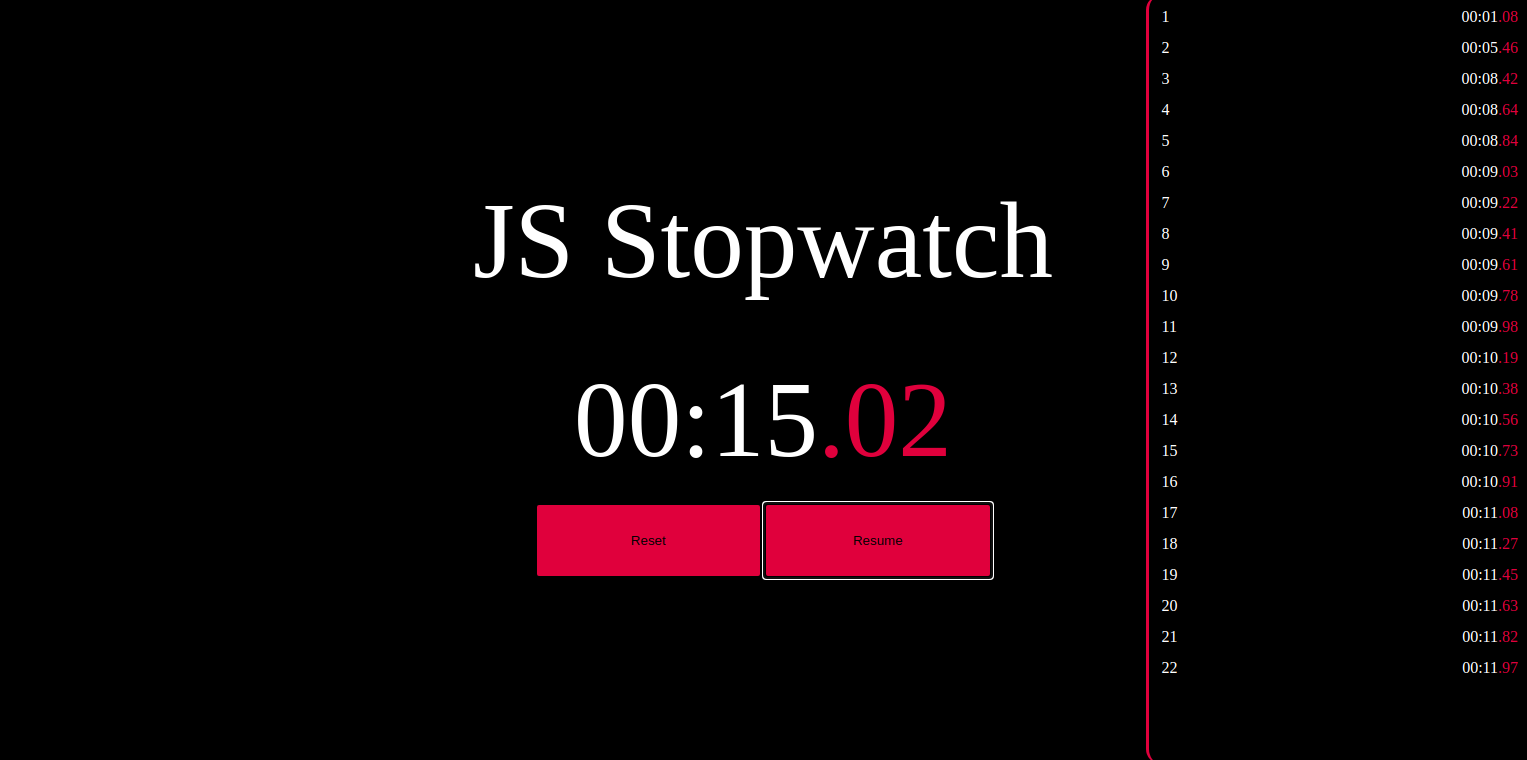
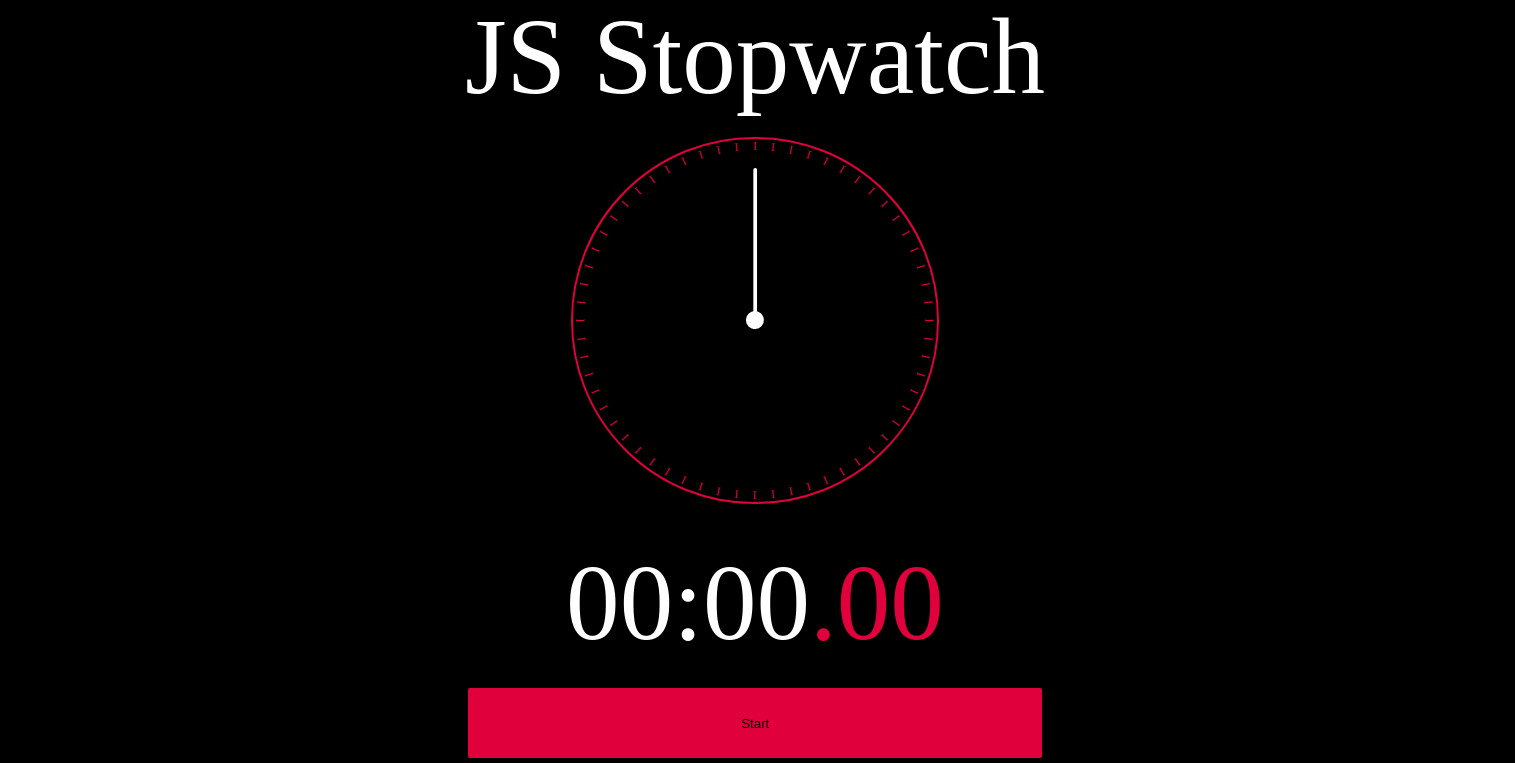
NEW: Added Clock

diff --git a/index.css b/index.css
@@ -54,6 +54,259 @@ button {
 }
 
 .start-button {
-  max-width: 40%;
   flex: 1;
+}
+
+* {
+  box-sizing: border-box;
+}
+
+body {
+  display: flex;
+  justify-content: center;
+  align-items: center;
+}
+
+.clock {
+  width: 24vw;
+  height: 24vw;
+  border-radius: 50%;
+  background: black;
+  position: relative;
+  border: 2px solid crimson;
+}
+
+.clock .tick {
+  --rotation: 0;
+  color: crimson;
+  text-align: center;
+  width: 100%;
+  height: 100%;
+  position: absolute;
+  font-size: 12px;
+  transform: rotate(var(--rotation));
+}
+
+.clock .tick1-2 {
+  transform: rotate(6deg);
+}
+.clock .tick1-3 {
+  transform: rotate(12deg);
+}
+.clock .tick1-4 {
+  transform: rotate(18deg);
+}
+.clock .tick1-5 {
+  transform: rotate(24deg);
+}
+.clock .tick1 {
+  transform: rotate(30deg);
+}
+
+.clock .tick2-2 {
+  transform: rotate(36deg);
+}
+.clock .tick2-3 {
+  transform: rotate(42deg);
+}
+.clock .tick2-4 {
+  transform: rotate(48deg);
+}
+.clock .tick2-5 {
+  transform: rotate(54deg);
+}
+.clock .tick2 {
+  transform: rotate(60deg);
+}
+
+.clock .tick3-2 {
+  transform: rotate(66deg);
+}
+.clock .tick3-3 {
+  transform: rotate(72deg);
+}
+.clock .tick3-4 {
+  transform: rotate(78deg);
+}
+.clock .tick3-5 {
+  transform: rotate(84deg);
+}
+.clock .tick3 {
+  transform: rotate(90deg);
+}
+
+.clock .tick4-2 {
+  transform: rotate(96deg);
+}
+.clock .tick4-3 {
+  transform: rotate(102deg);
+}
+.clock .tick4-4 {
+  transform: rotate(108deg);
+}
+.clock .tick4-5 {
+  transform: rotate(114deg);
+}
+.clock .tick4 {
+  transform: rotate(120deg);
+}
+
+.clock .tick5-2 {
+  transform: rotate(126deg);
+}
+.clock .tick5-3 {
+  transform: rotate(132deg);
+}
+.clock .tick5-4 {
+  transform: rotate(138deg);
+}
+.clock .tick5-5 {
+  transform: rotate(144deg);
+}
+.clock .tick5 {
+  transform: rotate(150deg);
+}
+
+.clock .tick6-2 {
+  transform: rotate(156deg);
+}
+.clock .tick6-3 {
+  transform: rotate(162deg);
+}
+.clock .tick6-4 {
+  transform: rotate(168deg);
+}
+.clock .tick6-5 {
+  transform: rotate(174deg);
+}
+.clock .tick6 {
+  transform: rotate(180deg);
+}
+
+.clock .tick7-2 {
+  transform: rotate(186deg);
+}
+.clock .tick7-3 {
+  transform: rotate(192deg);
+}
+.clock .tick7-4 {
+  transform: rotate(198deg);
+}
+.clock .tick7-5 {
+  transform: rotate(204deg);
+}
+.clock .tick7 {
+  transform: rotate(210deg);
+}
+
+.clock .tick8-2 {
+  transform: rotate(216deg);
+}
+.clock .tick8-3 {
+  transform: rotate(222deg);
+}
+.clock .tick8-4 {
+  transform: rotate(228deg);
+}
+.clock .tick8-5 {
+  transform: rotate(234deg);
+}
+.clock .tick8 {
+  transform: rotate(240deg);
+}
+
+.clock .tick9-2 {
+  transform: rotate(246deg);
+}
+.clock .tick9-3 {
+  transform: rotate(252deg);
+}
+.clock .tick9-4 {
+  transform: rotate(258deg);
+}
+.clock .tick9-5 {
+  transform: rotate(264deg);
+}
+.clock .tick9 {
+  transform: rotate(270deg);
+}
+
+.clock .tick10-2 {
+  transform: rotate(276deg);
+}
+.clock .tick10-3 {
+  transform: rotate(282deg);
+}
+.clock .tick10-4 {
+  transform: rotate(288deg);
+}
+.clock .tick10-5 {
+  transform: rotate(294deg);
+}
+.clock .tick10 {
+  transform: rotate(300deg);
+}
+
+.clock .tick11-2 {
+  transform: rotate(306deg);
+}
+.clock .tick11-3 {
+  transform: rotate(312deg);
+}
+.clock .tick11-4 {
+  transform: rotate(318deg);
+}
+.clock .tick11-5 {
+  transform: rotate(324deg);
+}
+.clock .tick11 {
+  transform: rotate(330deg);
+}
+
+.clock .tick12-2 {
+  transform: rotate(336deg);
+}
+.clock .tick12-3 {
+  transform: rotate(342deg);
+}
+.clock .tick12-4 {
+  transform: rotate(348deg);
+}
+.clock .tick12-5 {
+  transform: rotate(354deg);
+}
+
+.clock .hand {
+  --rotation: 0;
+  background-color: black;
+  width: 3%;
+  border: 1px solid transparent;
+  border-top-right-radius: 12px;
+  height: 40%;
+  border-top-left-radius: 12px;
+  position: absolute;
+  bottom: 50%;
+  left: 50%;
+  z-index: 10;
+  transform: translateX(-50%) rotate(calc(var(--rotation) * 1deg));
+  transform-origin: bottom;
+}
+
+.clock .hand.sec {
+  height: 42%;
+  width: 1%;
+  background-color: white;
+}
+
+.clock::after {
+  content: "";
+  height: 5%;
+  width: 5%;
+  background-color: white;
+  bottom: 50%;
+  left: 50%;
+  position: absolute;
+  transform: translate(-50%, 50%);
+  z-index: 123;
+  border-radius: 50%;
 }

diff --git a/index.html b/index.html
@@ -11,7 +11,83 @@
     <div class="wrapper">
         <div class="left">
             <p class="top-heading">JS Stopwatch</p>
-            <br><br>
+            <br>
+            <div class="clock">
+                <div class="hand sec"></div>
+
+                <div class="tick tick1">I</div>
+                <div class="tick tick1-2">I</div>
+                <div class="tick tick1-3">I</div>
+                <div class="tick tick1-4">I</div>
+                <div class="tick tick1-5">I</div>
+
+                <div class="tick tick2">I</div>
+                <div class="tick tick2-2">I</div>
+                <div class="tick tick2-3">I</div>
+                <div class="tick tick2-4">I</div>
+                <div class="tick tick2-5">I</div>
+
+                <div class="tick tick3">I</div>
+                <div class="tick tick3-2">I</div>
+                <div class="tick tick3-3">I</div>
+                <div class="tick tick3-4">I</div>
+                <div class="tick tick3-5">I</div>
+
+                <div class="tick tick4">I</div>
+                <div class="tick tick4-2">I</div>
+                <div class="tick tick4-3">I</div>
+                <div class="tick tick4-4">I</div>
+                <div class="tick tick4-5">I</div>
+
+                <div class="tick tick5">I</div>
+                <div class="tick tick5-2">I</div>
+                <div class="tick tick5-3">I</div>
+                <div class="tick tick5-4">I</div>
+                <div class="tick tick5-5">I</div>
+
+                <div class="tick tick6">I</div>
+                <div class="tick tick6-2">I</div>
+                <div class="tick tick6-3">I</div>
+                <div class="tick tick6-4">I</div>
+                <div class="tick tick6-5">I</div>
+
+                <div class="tick tick7">I</div>
+                <div class="tick tick7-2">I</div>
+                <div class="tick tick7-3">I</div>
+                <div class="tick tick7-4">I</div>
+                <div class="tick tick7-5">I</div>
+
+                <div class="tick tick8">I</div>
+                <div class="tick tick8-2">I</div>
+                <div class="tick tick8-3">I</div>
+                <div class="tick tick8-4">I</div>
+                <div class="tick tick8-5">I</div>
+
+                <div class="tick tick9">I</div>
+                <div class="tick tick9-2">I</div>
+                <div class="tick tick9-3">I</div>
+                <div class="tick tick9-4">I</div>
+                <div class="tick tick9-5">I</div>
+
+                <div class="tick tick10">I</div>
+                <div class="tick tick10-2">I</div>
+                <div class="tick tick10-3">I</div>
+                <div class="tick tick10-4">I</div>
+                <div class="tick tick10-5">I</div>
+
+                <div class="tick tick11">I</div>
+                <div class="tick tick11-2">I</div>
+                <div class="tick tick11-3">I</div>
+                <div class="tick tick11-4">I</div>
+                <div class="tick tick11-5">I</div>
+
+                <div class="tick tick12">I</div>
+                <div class="tick tick12-2">I</div>
+                <div class="tick tick12-3">I</div>
+                <div class="tick tick12-4">I</div>
+                <div class="tick tick12-5">I</div>
+            </div>
+            <br>
             <p class="timer"><span id="min">00</span>:<span id="sec">00</span><span
                     style="color: crimson;">.</span><span style="color: crimson;" id="msec">00</span></p>
             <div class="timer-buttons">

diff --git a/index.js b/index.js
@@ -13,6 +13,7 @@ window.onload = function () {
   var msecTime = document.getElementById("msec");
   var minTime = document.getElementById("min");
   var secTime = document.getElementById("sec");
+  const secondsHand = document.querySelector(".clock .hand.sec");
 
   var rightSection = document.getElementById("right");
 
@@ -90,6 +91,10 @@ window.onload = function () {
   }
 
   function setTime(isReset = false) {
+    secondsHand.style.setProperty(
+      "--rotation",
+      ((secs * 1000 + msecs) / 1000 / 60) * 360
+    );
     if (msecs >= 1000) {
       secs++;
       msecs = 0;

diff --git a/README.md b/README.md
@@ -3,11 +3,11 @@
 ### Description
 This repo consists of a simple Stopwatch created using **Vanilla Javascript**, **HTML** and **CSS**.
 
-![project look](look2.png)
+![project look](look1.png)
 
 This Stopwatch also consists of Laps which is an additional cool feature to have.
 
-![project look](look1.png)
+![project look](look2.png)
 
 ### How to Run
 Open index.html in your browser.
